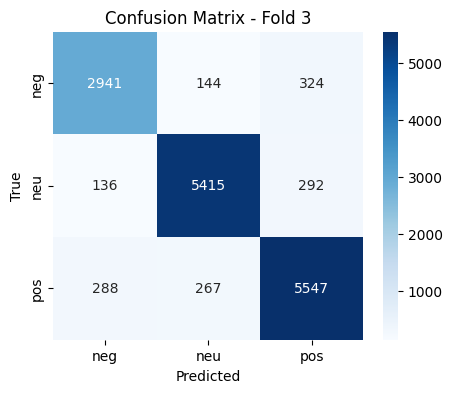
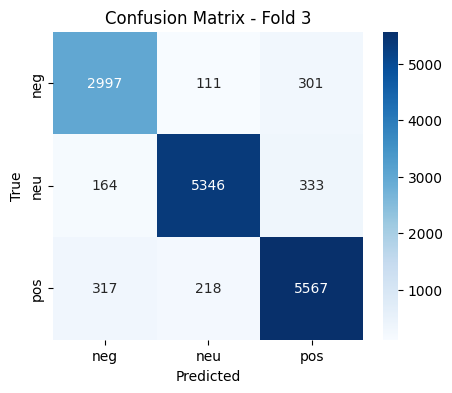
Test : complete test

diff --git a/upstock/nodes/train.py b/upstock/nodes/train.py
@@ -106,13 +106,13 @@ def run_train():
 
         callbacks = [
             TensorBoard(log_dir=log_dir),
-            EarlyStopping(monitor='val_loss', patience=20, restore_best_weights=True)
+            EarlyStopping(monitor='val_loss', patience=5, restore_best_weights=True)
         ]
 
         history = model.fit(
             X_train, y_train,
             validation_data=(X_val, y_val),
-            epochs=20,
+            epochs=10,
             batch_size=32,
             class_weight=class_weights,
             callbacks=callbacks,

diff --git a/upstock/config.py b/upstock/config.py
@@ -39,7 +39,7 @@ class SupabaseConfig:
 @dataclass(frozen=True)
 class PathConfig:
     sentiment_data: str = 'DataSets/upstock-sentiment-data.csv' # sentiment data
-    tokenizer: str = 'SaveModel/upstock_sentiment_tokenizer.pickle'
+    tokenizer: str = 'SaveModel/upstock_sentiment_tokenizer.pkl'
     model_gz: str = 'SaveModel/upstock_sentiment_model.keras.gz'
     model_h5_gz: str = 'SaveModel/upstock_sentiment_model.h5.gz'
     model: str = 'SaveModel/upstock_sentiment_model.keras'
